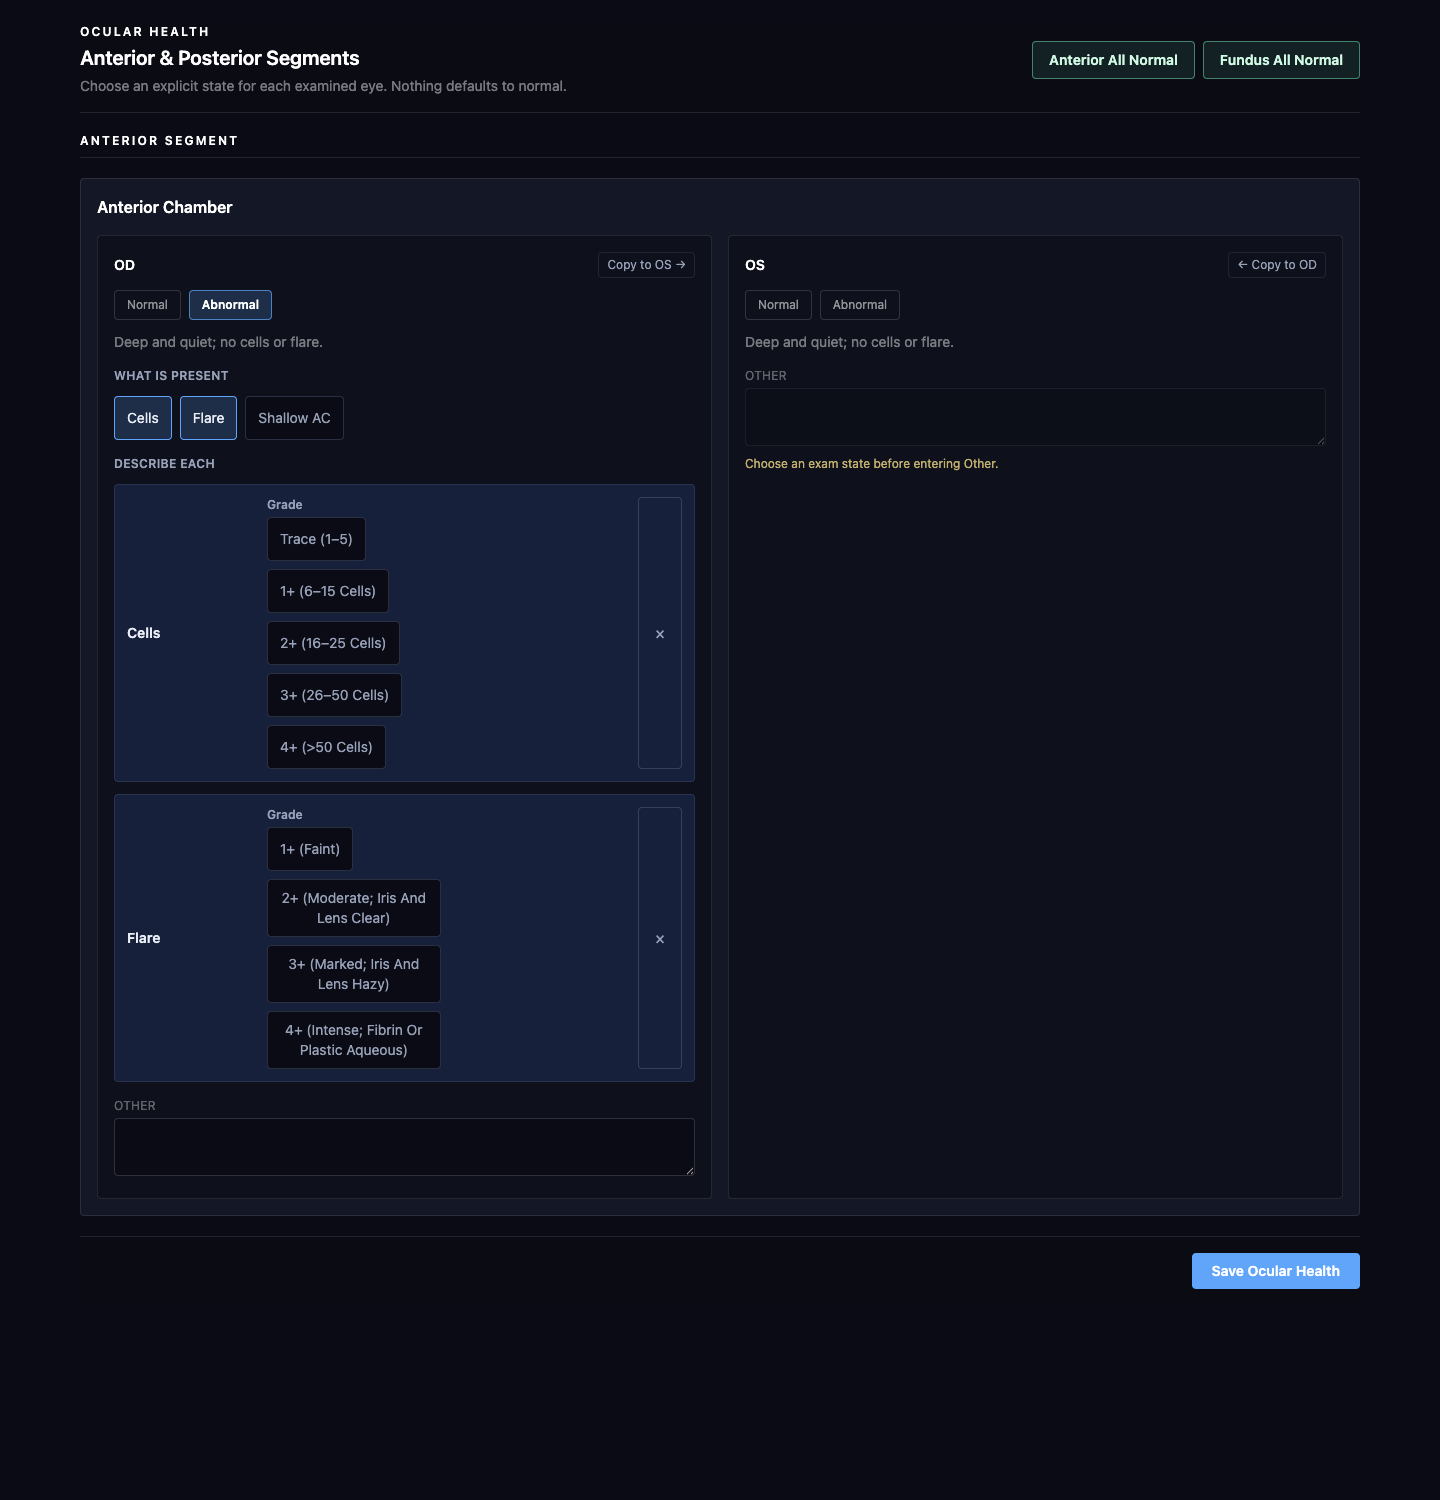
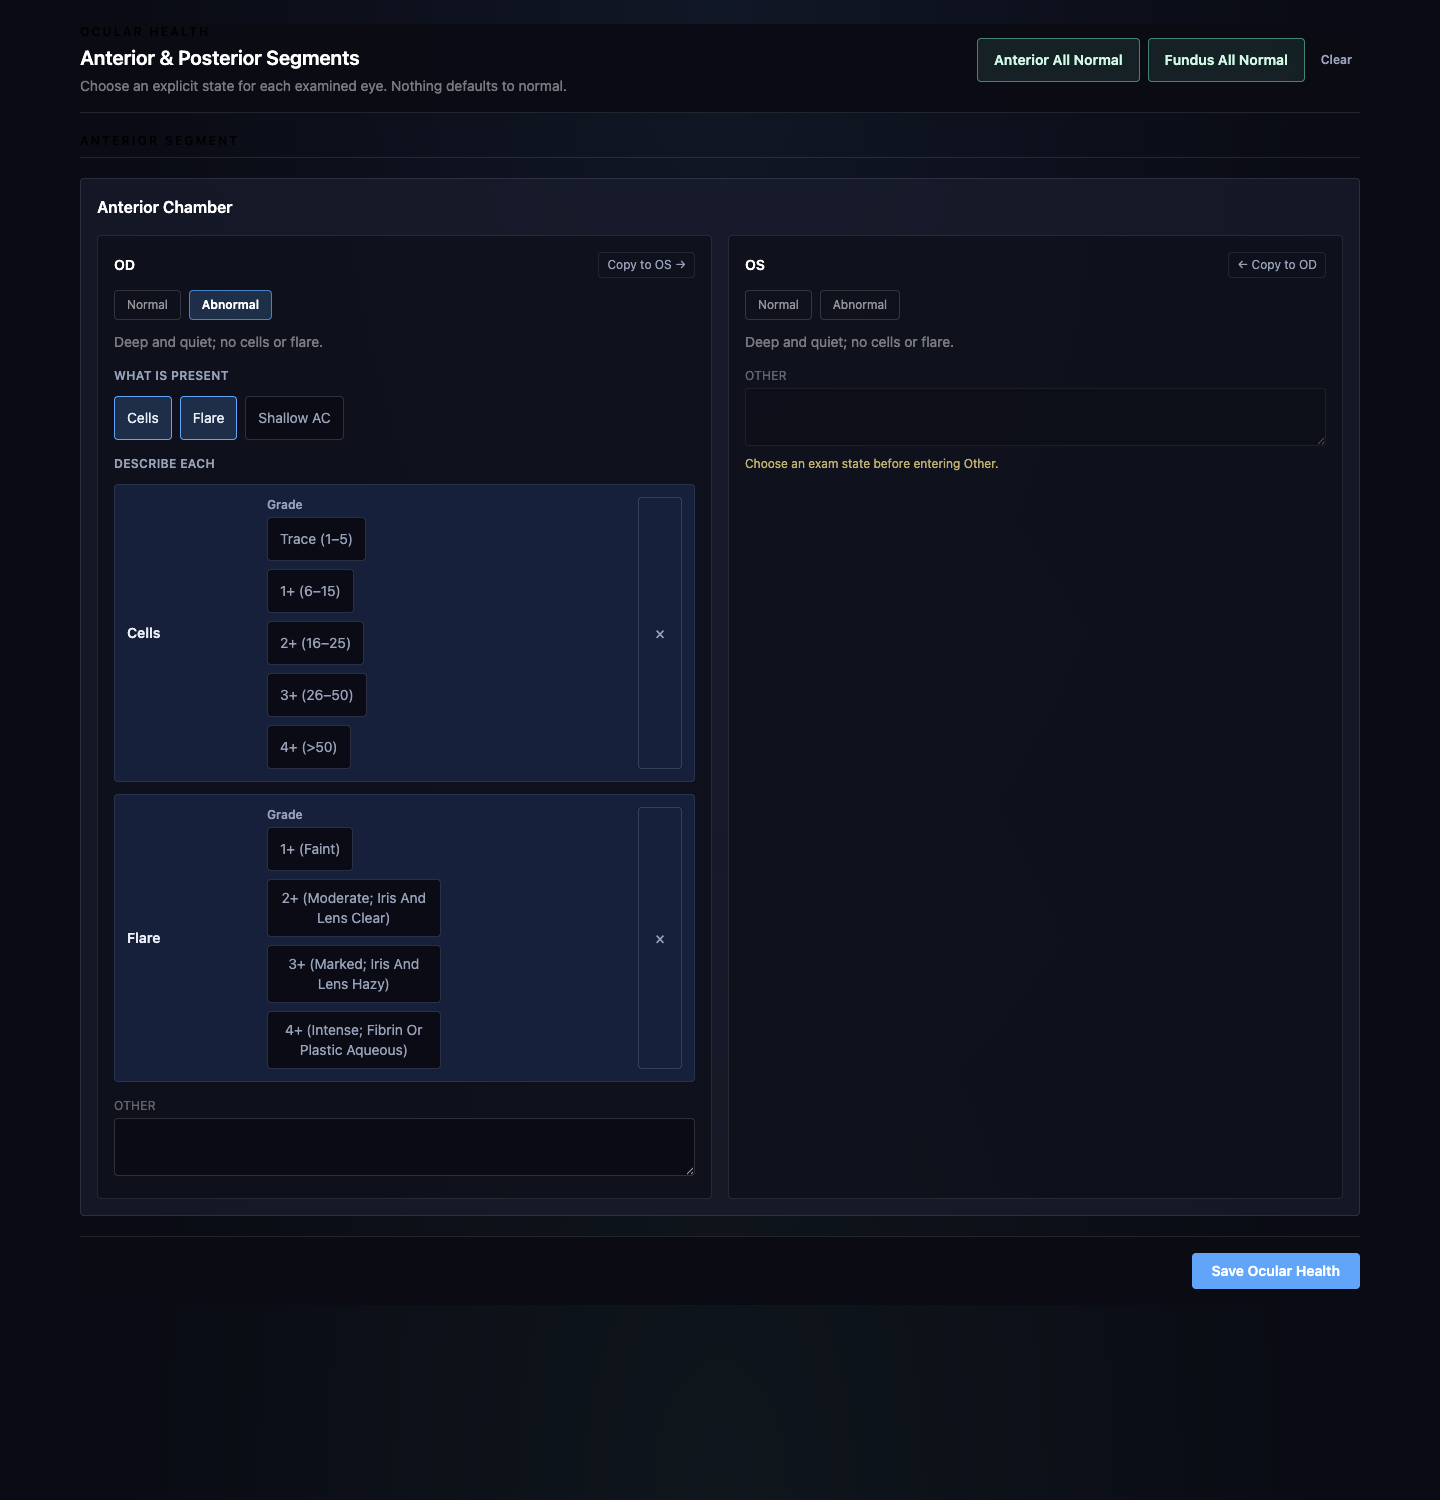
Match operator grade labels exactly

Changed region(s): [[0.6875, 0.0307, 0.9375, 0.0613], [0.2188, 0.368, 0.2812, 0.5213]]

diff --git a/mcp/tests/customSectionEndpoint.test.ts b/mcp/tests/customSectionEndpoint.test.ts
@@ -957,10 +957,10 @@ test("anterior chamber cells and flare expose the operator-adapted SUN-derived o
   const expected = {
     cells: [
       "Trace (1–5)",
-      "1+ (6–15 cells)",
-      "2+ (16–25 cells)",
-      "3+ (26–50 cells)",
-      "4+ (>50 cells)",
+      "1+ (6–15)",
+      "2+ (16–25)",
+      "3+ (26–50)",
+      "4+ (>50)",
     ],
     flare: [
       "1+ (faint)",
@@ -1001,7 +1001,7 @@ test("anterior chamber cell and flare grades round-trip without setting the sibl
     valueType?: string;
   }>).find((field) => field.valueType === "multi-select");
   assert.ok(findingField?.localCode);
-  const cellGrade = "2+ (16–25 cells)";
+  const cellGrade = "2+ (16–25)";
   const flareGrade = "1+ (faint)";
 
   const capture = await handleCustomSectionCaptureRequest(

diff --git a/mcp/src/clinical-graph/ocular-health-definition.ts b/mcp/src/clinical-graph/ocular-health-definition.ts
@@ -115,10 +115,10 @@ const ANTERIOR_STRUCTURES: StructureSeed[] = [
     priority: [
       sunDerivedGradedFinding("cells", "cells", [
         "Trace (1–5)",
-        "1+ (6–15 cells)",
-        "2+ (16–25 cells)",
-        "3+ (26–50 cells)",
-        "4+ (>50 cells)",
+        "1+ (6–15)",
+        "2+ (16–25)",
+        "3+ (26–50)",
+        "4+ (>50)",
       ]),
       sunDerivedGradedFinding("flare", "flare", [
         "1+ (faint)",
